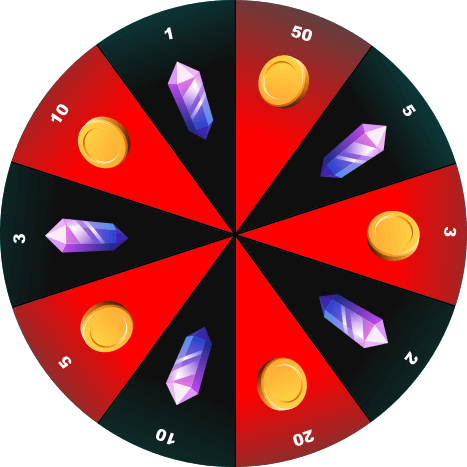
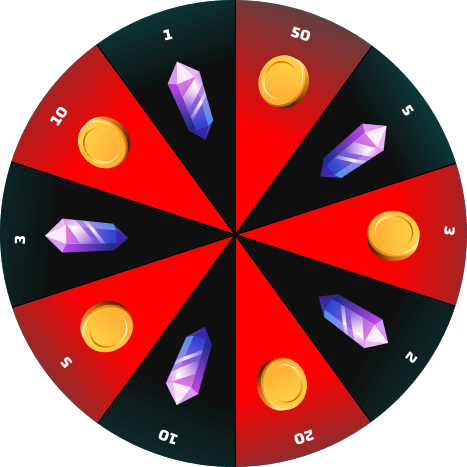
modified button fonts

diff --git a/src/scenes/Preloader.js b/src/scenes/Preloader.js
@@ -1,7 +1,6 @@
 import Phaser from 'phaser';
 import { getSoundSettings } from '../js/utils';
 import bg from '../images/bg.PNG';
-import inventory_bg from '../images/bg/inventory_bg.png';
 import gameTitle from '../images/title.png';
 import startBtn from '../images/buttons/start.png';
 import connectBtn from '../images/buttons/connect.png';
@@ -302,7 +301,6 @@ class LoadingScreen extends Phaser.Scene {
         this.load.image('unequipButton', unequipButton);
         this.load.image('connectBtn', connectBtn);
         this.load.image('light', light);
-        this.load.image('inventory_bg', inventory_bg);
 
         //Mission
         this.load.spritesheet("ninja", ninja, { frameWidth: 297, frameHeight: 420 });

diff --git a/src/scenes/Explore.js b/src/scenes/Explore.js
@@ -101,7 +101,7 @@ class Explore extends BaseScene {
                 let cardText = this.add.text(
                     lockBig.x, lockBig.y + lockBig.displayHeight*0.8,
                     `Unlock at Level ${slot.name == 'card_2'? 10: 20}`,
-                    {fontFamily: 'Arial', fontSize: 16, align: 'justify'}
+                    {fontFamily: 'GameTextFont', fontSize: 16, align: 'justify'}
                 ).setOrigin(0.5).setWordWrapWidth(slot.displayWidth*0.8);
                 this[`${slot.name}_container`].add([lockBig, cardText]);
             }
